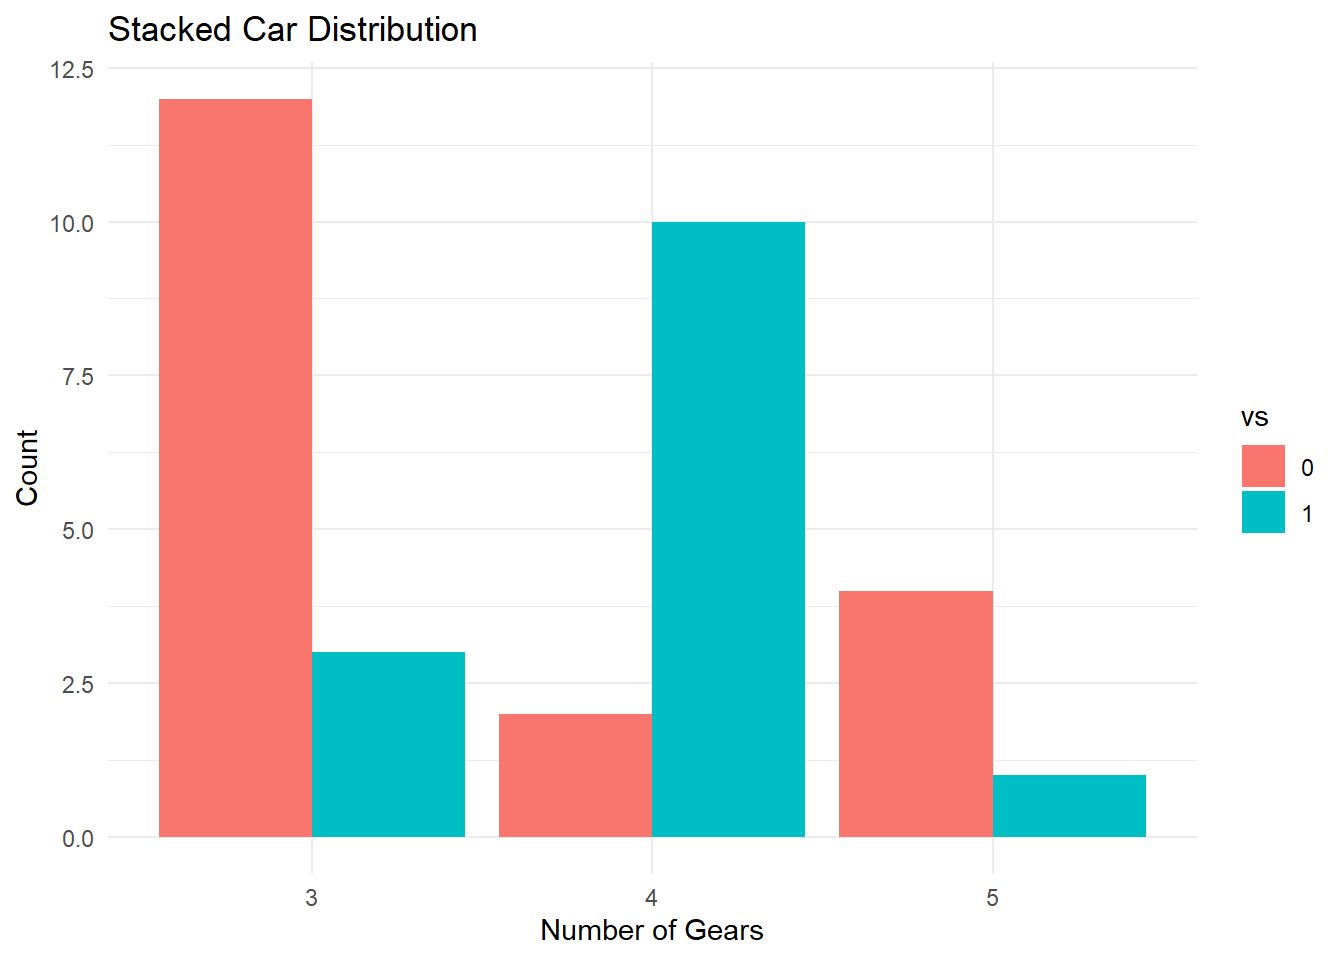
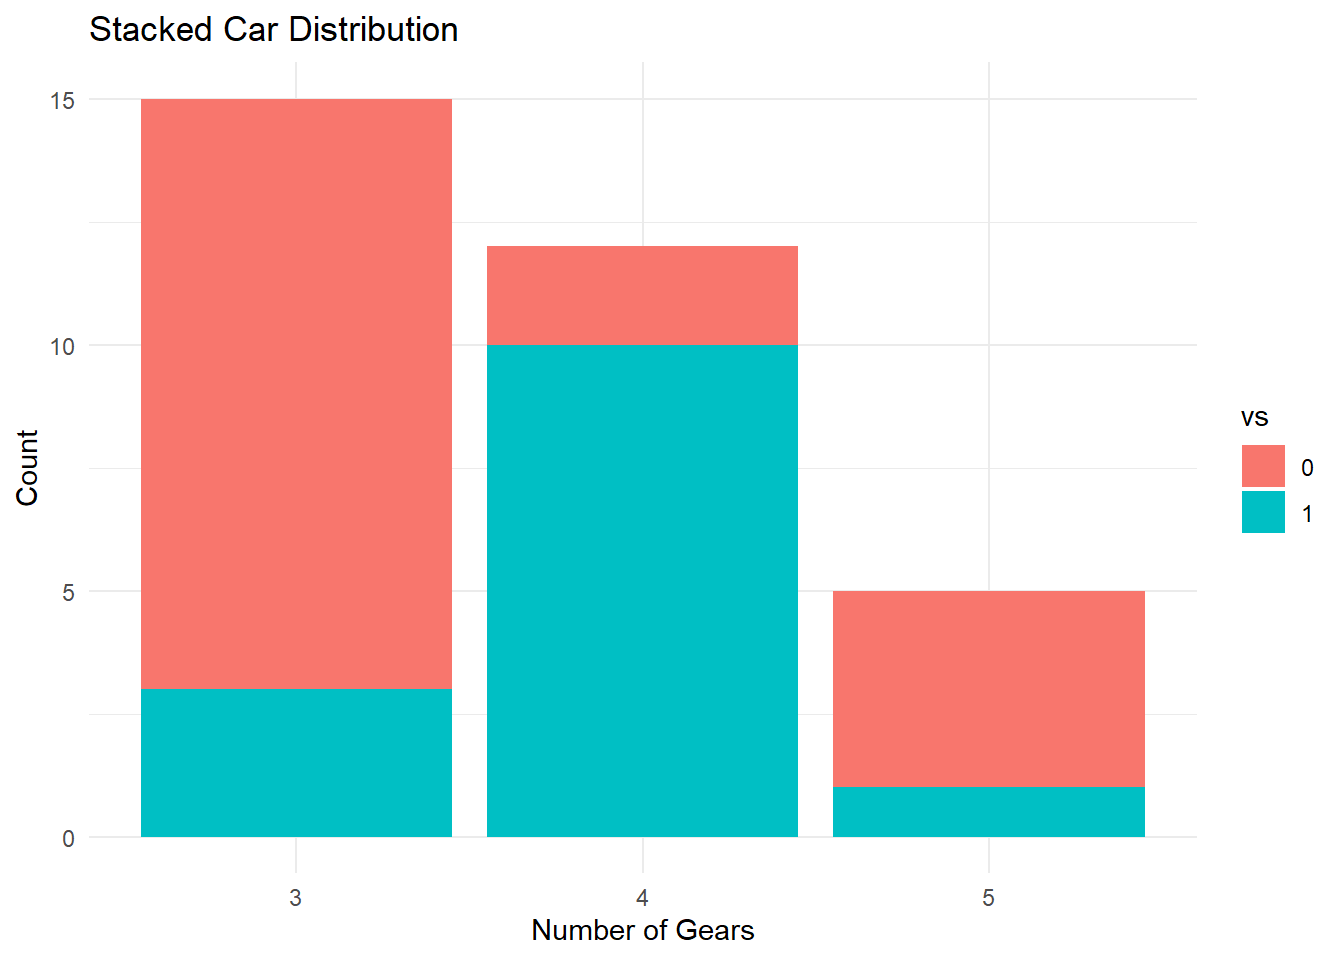
Update a few small items.

diff --git a/docs/dataviz.html b/docs/dataviz.html
@@ -1175,8 +1175,8 @@ FALSE </code></pre>
 </div>
 </div>
 </section>
-<section id="mpg-example" class="level4" data-number="5.2.5.2">
-<h4 data-number="5.2.5.2" class="anchored" data-anchor-id="mpg-example"><span class="header-section-number">5.2.5.2</span> mpg Example</h4>
+<section id="nd-example-checking-for-outliers-with-mtcars-dataset-mpg-variable" class="level4" data-number="5.2.5.2">
+<h4 data-number="5.2.5.2" class="anchored" data-anchor-id="nd-example-checking-for-outliers-with-mtcars-dataset-mpg-variable"><span class="header-section-number">5.2.5.2</span> 2nd Example Checking for outliers with mtcars dataset mpg variable</h4>
 <ul>
 <li>We can also view mpg from the mtcars data set as a violin plot because it is a numerical variable. In the plot below, I graphed mpg as a violin plot. You can also embed other visual markers like mean and median or layer on another graph like a boxplot.</li>
 <li>You can see that this violin plot is vertical. The coord_flip() command we used above flips the chart horizontal the same way it flips a boxplot.</li>
@@ -1289,12 +1289,12 @@ TRUE </code></pre>
 </div>
 <p><em>[LowerBound: 4.3625]</em> 10.4 10.4 13.3 14.3 14.7 15.0 15.2 15.2 15.5 15.8 16.4 17.3 17.8 18.1 18.7 19.2 19.2 19.7 21.0 21.0 21.4 21.4 21.5 22.8 22.8 24.4 26.0 27.3 30.4 30.4 32.4 <em>[UpperBound: 33.8625)]</em> 33.9</p>
 <div class="cell">
-<div class="sourceCode cell-code" id="cb101"><pre class="sourceCode r code-with-copy"><code class="sourceCode r"><span id="cb101-1"><a href="#cb101-1" aria-hidden="true" tabindex="-1"></a>semTools<span class="sc">::</span><span class="fu">skew</span>(mtcars<span class="sc">$</span>mpg)</span></code><button title="Copy to Clipboard" class="code-copy-button"><i class="bi"></i></button></pre></div>
+<div class="sourceCode cell-code" id="cb101"><pre class="sourceCode r code-with-copy"><code class="sourceCode r"><span id="cb101-1"><a href="#cb101-1" aria-hidden="true" tabindex="-1"></a>semTools<span class="sc">::</span><span class="fu">skew</span>(mtcars<span class="sc">$</span>mpg)  <span class="co">#normal</span></span></code><button title="Copy to Clipboard" class="code-copy-button"><i class="bi"></i></button></pre></div>
 <div class="cell-output cell-output-stdout">
 <pre><code>skew (g1)        se         z         p 
 0.6723771 0.4330127 1.5527885 0.1204737 </code></pre>
 </div>
-<div class="sourceCode cell-code" id="cb103"><pre class="sourceCode r code-with-copy"><code class="sourceCode r"><span id="cb103-1"><a href="#cb103-1" aria-hidden="true" tabindex="-1"></a>semTools<span class="sc">::</span><span class="fu">kurtosis</span>(mtcars<span class="sc">$</span>mpg)</span></code><button title="Copy to Clipboard" class="code-copy-button"><i class="bi"></i></button></pre></div>
+<div class="sourceCode cell-code" id="cb103"><pre class="sourceCode r code-with-copy"><code class="sourceCode r"><span id="cb103-1"><a href="#cb103-1" aria-hidden="true" tabindex="-1"></a>semTools<span class="sc">::</span><span class="fu">kurtosis</span>(mtcars<span class="sc">$</span>mpg)  <span class="co">#mesokurtic</span></span></code><button title="Copy to Clipboard" class="code-copy-button"><i class="bi"></i></button></pre></div>
 <div class="cell-output cell-output-stdout">
 <pre><code>Excess Kur (g2)              se               z               p 
     -0.02200629      0.86602540     -0.02541068      0.97972740 </code></pre>
@@ -1375,6 +1375,7 @@ TRUE </code></pre>
 <li>Once the dataset was made, we can make the graph with the geom_bar layer.</li>
 <li>Since there are two variables, we need to set the position to dodge.</li>
 <li>(stat = “identity”) tells ggplot that the y values are already computed and should be used as-is for the heights of the bars. In this case, they are frequencies calculated in the countsDF dataset.</li>
+</ul></li>
 </ul>
 <div class="cell">
 <div class="sourceCode cell-code" id="cb107"><pre class="sourceCode r code-with-copy"><code class="sourceCode r"><span id="cb107-1"><a href="#cb107-1" aria-hidden="true" tabindex="-1"></a>mtcars <span class="ot">&lt;-</span> mtcars <span class="sc">%&gt;%</span></span>
@@ -1406,8 +1407,7 @@ TRUE </code></pre>
 </figure>
 </div>
 </div>
-</div></li>
-</ul>
+</div>
 </section>
 <section id="stacked-bar-graph" class="level4" data-number="5.3.1.2">
 <h4 data-number="5.3.1.2" class="anchored" data-anchor-id="stacked-bar-graph"><span class="header-section-number">5.3.1.2</span> Stacked Bar Graph</h4>
@@ -1417,7 +1417,7 @@ TRUE </code></pre>
 </ul>
 <div class="cell">
 <div class="sourceCode cell-code" id="cb110"><pre class="sourceCode r code-with-copy"><code class="sourceCode r"><span id="cb110-1"><a href="#cb110-1" aria-hidden="true" tabindex="-1"></a><span class="fu">ggplot</span>(countsDF, <span class="fu">aes</span>(<span class="at">x =</span> gear, <span class="at">y =</span> n, <span class="at">fill =</span> vs)) <span class="sc">+</span></span>
-<span id="cb110-2"><a href="#cb110-2" aria-hidden="true" tabindex="-1"></a>  <span class="fu">geom_bar</span>(<span class="at">stat =</span> <span class="st">"identity"</span>, <span class="at">position =</span> <span class="st">"dodge"</span>) <span class="sc">+</span></span>
+<span id="cb110-2"><a href="#cb110-2" aria-hidden="true" tabindex="-1"></a>  <span class="fu">geom_bar</span>(<span class="at">stat =</span> <span class="st">"identity"</span>) <span class="sc">+</span></span>
 <span id="cb110-3"><a href="#cb110-3" aria-hidden="true" tabindex="-1"></a>  <span class="fu">labs</span>(<span class="at">title =</span> <span class="st">"Stacked Car Distribution"</span>,</span>
 <span id="cb110-4"><a href="#cb110-4" aria-hidden="true" tabindex="-1"></a>       <span class="at">x =</span> <span class="st">"Number of Gears"</span>,</span>
 <span id="cb110-5"><a href="#cb110-5" aria-hidden="true" tabindex="-1"></a>       <span class="at">y =</span> <span class="st">"Count"</span>) <span class="sc">+</span></span>
@@ -1461,6 +1461,7 @@ TRUE </code></pre>
 <li><p>We can add color using the scale_fill_manual. Since there are two colors, we use the c() command to combine them together inside the layer.</p>
 <ul>
 <li>scale_fill_manual() is a function used to manually set the colors for filled areas (like bars, areas in geom_area, etc.) in a plot. Here, values argument takes our custom color palette of yellow and brown.</li>
+</ul></li>
 </ul>
 <div class="cell">
 <div class="sourceCode cell-code" id="cb113"><pre class="sourceCode r code-with-copy"><code class="sourceCode r"><span id="cb113-1"><a href="#cb113-1" aria-hidden="true" tabindex="-1"></a><span class="fu">ggplot</span>(avg_mpg, <span class="fu">aes</span>(gear, mpg, <span class="at">fill =</span> vs)) <span class="sc">+</span> <span class="fu">geom_bar</span>(<span class="at">stat =</span> <span class="st">"identity"</span>,</span>
@@ -1473,8 +1474,7 @@ TRUE </code></pre>
 </figure>
 </div>
 </div>
-</div></li>
-</ul>
+</div>
 </section>
 </section>
 <section id="boxplot-for-continuous-across-groups" class="level3" data-number="5.3.2">
